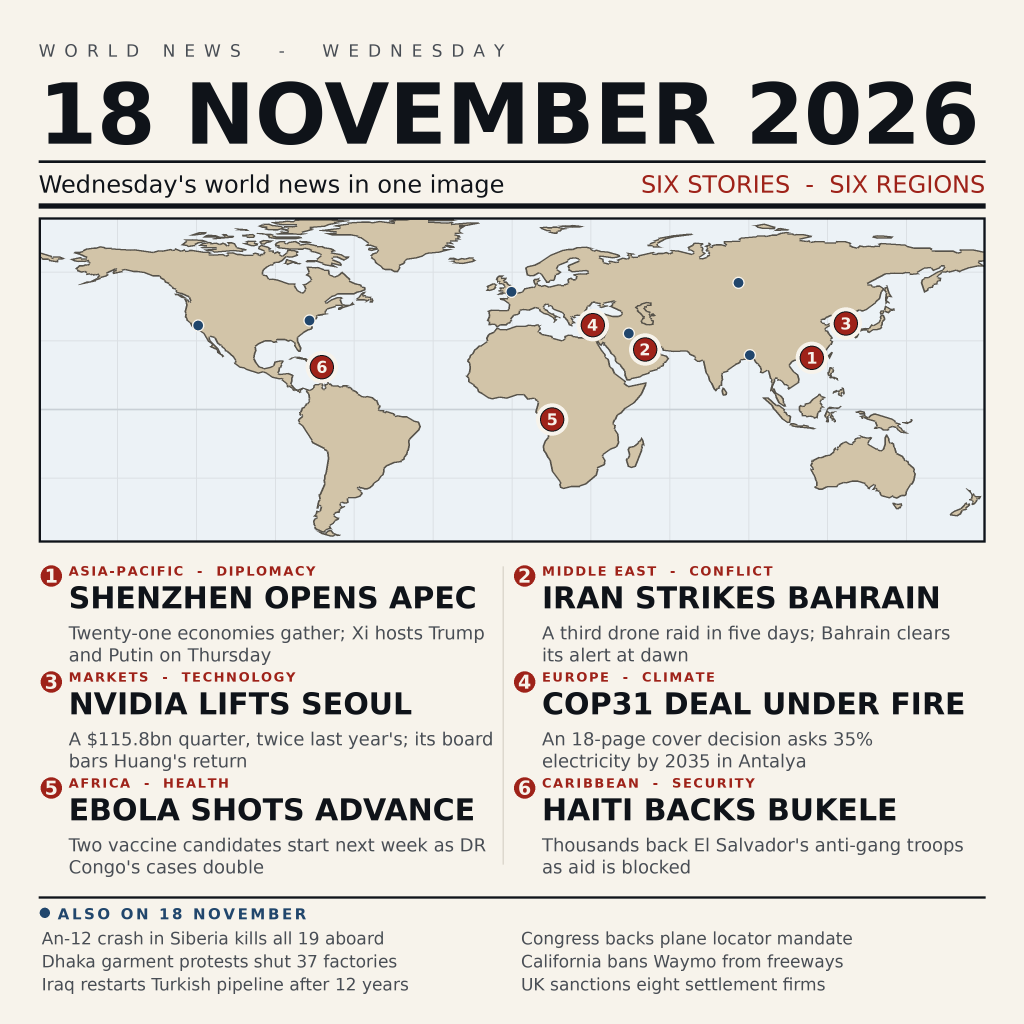
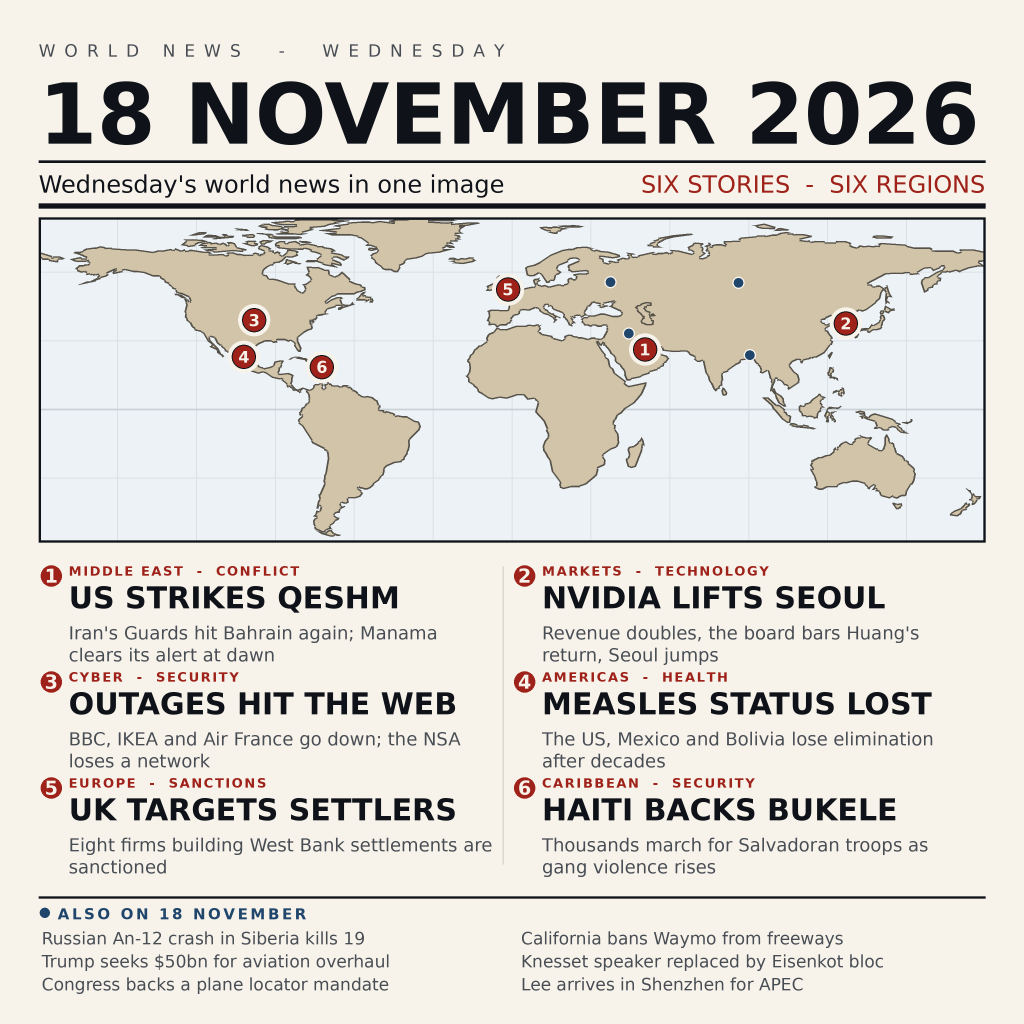
fix: correct the day's stories to verified 18 November events
Replaced four items that the source feeds date to 17 November. The page now
carries only events reported on the 18th: the Qeshm strike and Bahrain's
all-clear, Nvidia's results and Seoul's open, the BBC/IKEA/Air France outages
and the NSA network loss, the US losing measles elimination, UK sanctions on
settlement firms, and the Haiti march. Footer: An-12 crash, the $50bn aviation
request, the plane-locator mandate, Waymo, the Knesset speaker, Lee in Shenzhen.

diff --git a/art/render_image.py b/art/render_image.py
@@ -59,37 +59,38 @@ SUBHEAD_R = "SIX STORIES  -  SIX REGIONS"
 # field, number, headline (one line), detail (<=2 lines), (lon, lat)
 # Every story here happened, or was first reported, on 18 November 2026.
 STORIES = [
-    ("ASIA-PACIFIC  -  DIPLOMACY", "1", "SHENZHEN OPENS APEC",
-     "Twenty-one economies gather; Xi hosts Trump and Putin on Thursday",
-     (114.06, 22.55)),
-    ("MIDDLE EAST  -  CONFLICT", "2", "IRAN STRIKES BAHRAIN",
-     "A third drone raid in five days; Bahrain clears its alert at dawn",
+    ("MIDDLE EAST  -  CONFLICT", "1", "US STRIKES QESHM",
+     "Iran's Guards hit Bahrain again; Manama clears its alert at dawn",
      (50.58, 26.22)),
-    ("MARKETS  -  TECHNOLOGY", "3", "NVIDIA LIFTS SEOUL",
-     "A $115.8bn quarter, twice last year's; its board bars Huang's return",
+    ("MARKETS  -  TECHNOLOGY", "2", "NVIDIA LIFTS SEOUL",
+     "Revenue doubles, the board bars Huang's return, Seoul jumps",
      (126.98, 37.57)),
-    ("EUROPE  -  CLIMATE", "4", "COP31 DEAL UNDER FIRE",
-     "An 18-page cover decision asks 35% electricity by 2035 in Antalya",
-     (30.70, 36.90)),
-    ("AFRICA  -  HEALTH", "5", "EBOLA SHOTS ADVANCE",
-     "Two vaccine candidates start next week as DR Congo's cases double",
-     (15.31, -4.32)),
+    ("CYBER  -  SECURITY", "3", "OUTAGES HIT THE WEB",
+     "BBC, IKEA and Air France go down; the NSA loses a network",
+     (-98.00, 39.00)),
+    ("AMERICAS  -  HEALTH", "4", "MEASLES STATUS LOST",
+     "The US, Mexico and Bolivia lose elimination after decades",
+     (-102.00, 23.00)),
+    ("EUROPE  -  SANCTIONS", "5", "UK TARGETS SETTLERS",
+     "Eight firms building West Bank settlements are sanctioned",
+     (-1.50, 52.50)),
     ("CARIBBEAN  -  SECURITY", "6", "HAITI BACKS BUKELE",
-     "Thousands back El Salvador's anti-gang troops as aid is blocked",
+     "Thousands march for Salvadoran troops as gang violence rises",
      (-72.34, 18.54)),
 ]
 
 # the day's other stories, one dot each, in the same order as ALSO
-MINOR = [(86.10, 55.40), (90.40, 23.80), (44.40, 33.30),
-         (-77.00, 38.90), (-119.40, 36.80), (-0.13, 51.50)]
+# The unnumbered dots mark other places the day touched. Nothing here may sit
+# within PIN_R + 8px of a numbered pin, or under the footer's legend colour.
+MINOR = [(86.10, 55.40), (90.40, 23.80), (44.40, 33.30), (37.50, 55.70)]
 
 ALSO_HEAD = "ALSO ON 18 NOVEMBER"
-ALSO = ["An-12 crash in Siberia kills all 19 aboard",
-        "Dhaka garment protests shut 37 factories",
-        "Iraq restarts Turkish pipeline after 12 years",
-        "Congress backs plane locator mandate",
+ALSO = ["Russian An-12 crash in Siberia kills 19",
+        "Trump seeks $50bn for aviation overhaul",
+        "Congress backs a plane locator mandate",
         "California bans Waymo from freeways",
-        "UK sanctions eight settlement firms"]
+        "Knesset speaker replaced by Eisenkot bloc",
+        "Lee arrives in Shenzhen for APEC"]
 
 
 def font(size, bold=False):

diff --git a/README.md b/README.md
@@ -12,24 +12,23 @@ news.
 
 **The day, in six stories**
 
-1. **Shenzhen opens APEC** — twenty-one economies gather for the leaders' meeting;
-   Xi hosts Trump and Putin on Thursday.
-2. **Iran strikes Bahrain** — a third drone raid on the kingdom in five days;
-   Bahrain issues an all-clear at dawn on the 18th.
-3. **Nvidia lifts Seoul** — a $115.8bn quarter, roughly double last year's, sends
-   Korean stocks sharply higher at the open; the board rules out Huang's return.
-4. **COP31 deal under fire** — an 18-page draft cover decision in Antalya asks for
-   35% electricity in global energy use by 2035 and splits the negotiators.
-5. **Ebola shots advance** — the WHO says two vaccine candidates enter phase 2
-   trials next week in DR Congo.
-6. **Haiti backs Bukele** — thousands march for El Salvador's anti-gang mission as
-   gang violence blocks aid and child malnutrition worsens.
+1. **US strikes Qeshm** — after Iran's Guards hit Bahrain again; Manama issues
+   an all-clear at dawn on the 18th.
+2. **Nvidia lifts Seoul** — revenue doubles, the board rules out Huang's return,
+   and Korean stocks open sharply higher.
+3. **Outages hit the web** — BBC, IKEA and Air France go down as Trump calls the
+   string of failures "fine"; the NSA loses a classified network.
+4. **Measles status lost** — the US, Mexico and Bolivia lose elimination after
+   nearly three decades.
+5. **UK targets settlers** — eight firms building West Bank settlements are
+   sanctioned in a push to protect the two-state solution.
+6. **Haiti backs Bukele** — thousands march for El Salvador's anti-gang mission
+   as analysts warn of escalation.
 
-**Also that day**, along the bottom: an An-12 crash in Siberia kills all 19 aboard;
-garment workers in Dhaka clash with police and block highways; Iraq restarts the
-Ceyhan pipeline after twelve years; Congress agrees a civilian plane-locator
-mandate; California bans Waymo from freeways; the UK sanctions eight companies
-building West Bank settlements.
+**Also that day**, along the bottom: a Russian An-12 crashes in Siberia, killing
+19; Trump asks for $50bn to overhaul US aviation; Congress agrees a civilian
+plane-locator mandate; California bans Waymo from freeways; the Knesset gets a
+new speaker from the Eisenkot bloc; and Lee Jae Myung reaches Shenzhen for APEC.
 
 ## How it is made
 

diff --git a/art/README.md b/art/README.md
@@ -12,9 +12,9 @@ deterministic.
 | band | content |
 | --- | --- |
 | masthead | "18 NOVEMBER 2026", the day, and a one-line summary |
-| map | equirectangular land outline, six pins placed at each story's country |
+| map | equirectangular land outline, six numbered pins and four unnumbered dots |
 | stories | two columns of three cards: region label, headline, one-line detail |
-| footer | "also that day" — seven further items in two columns |
+| footer | "also that day" — six further items in two columns |
 
 Pins are keyed to the story numbers in the cards, so the map reads top to bottom
 with the page. Positions are country centroids, not cities, because most stories
